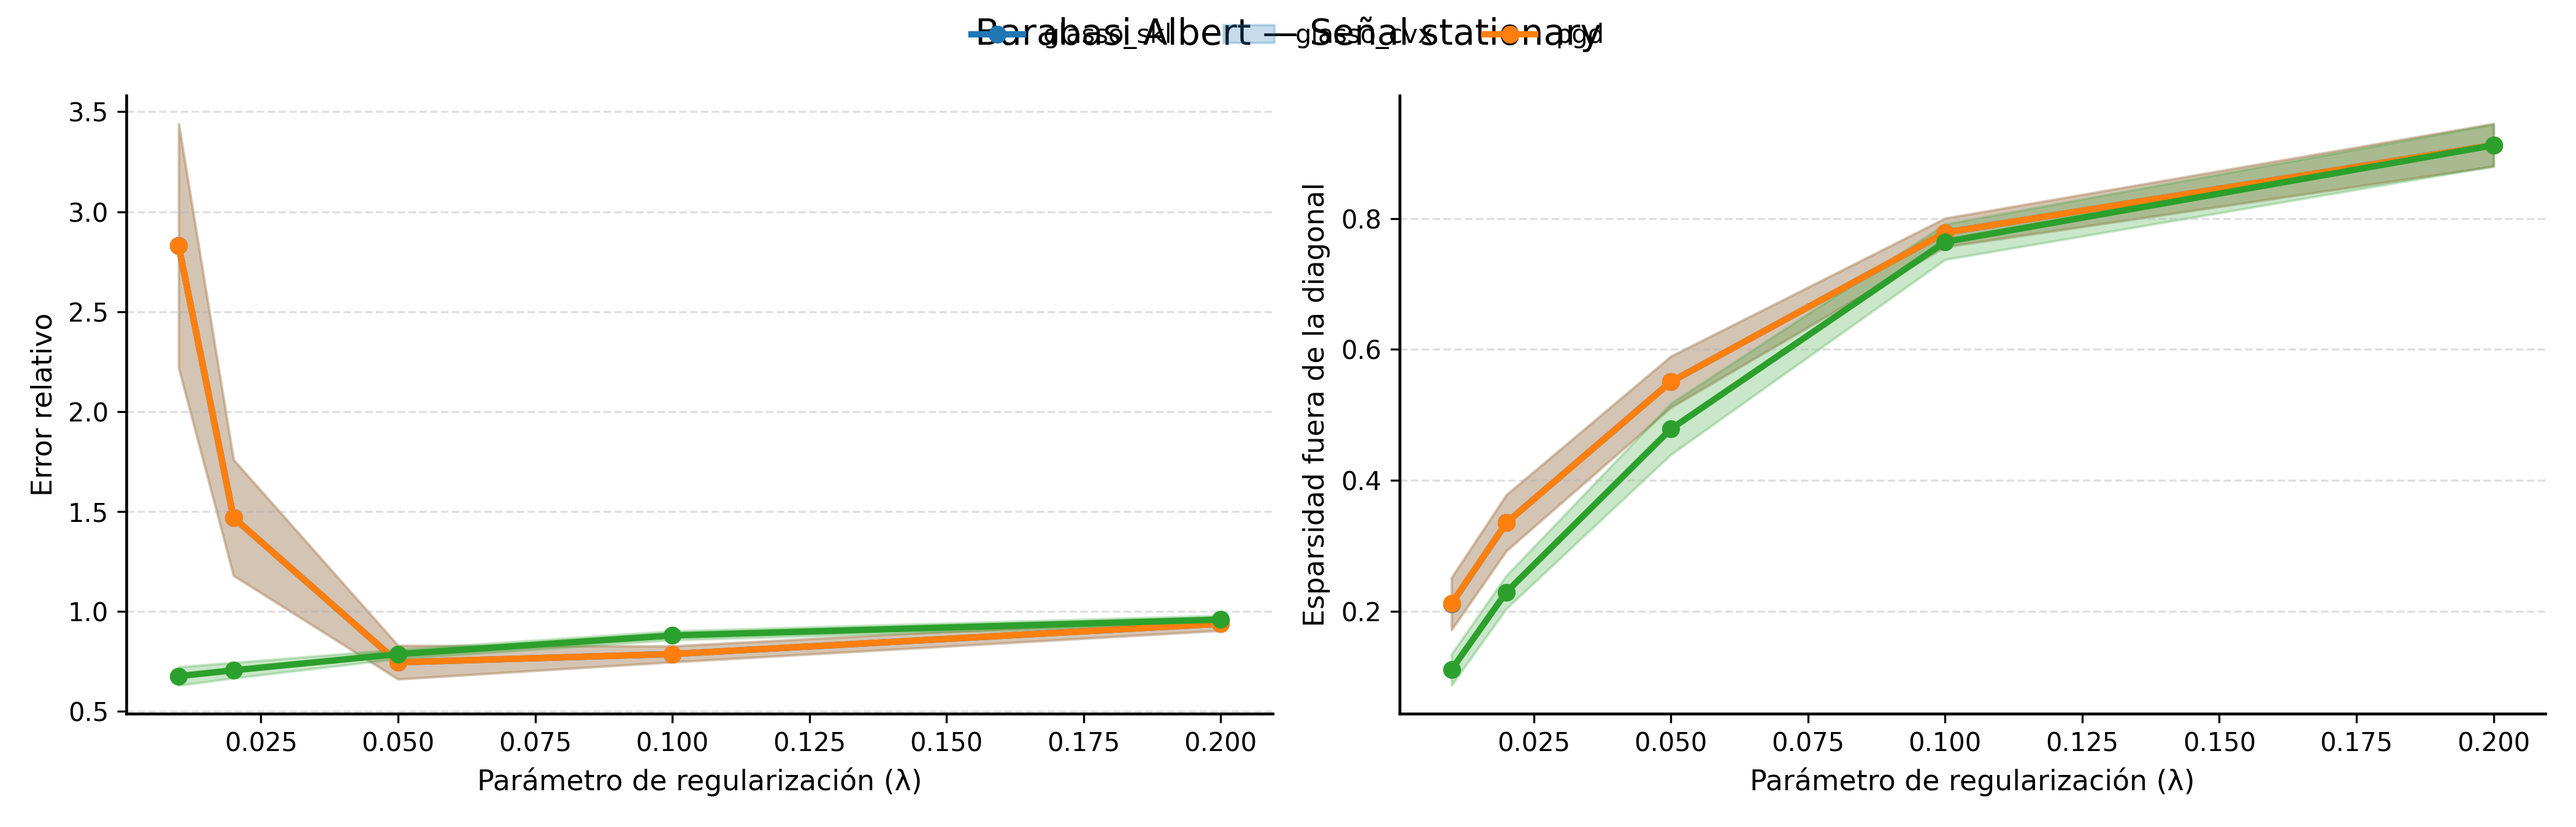
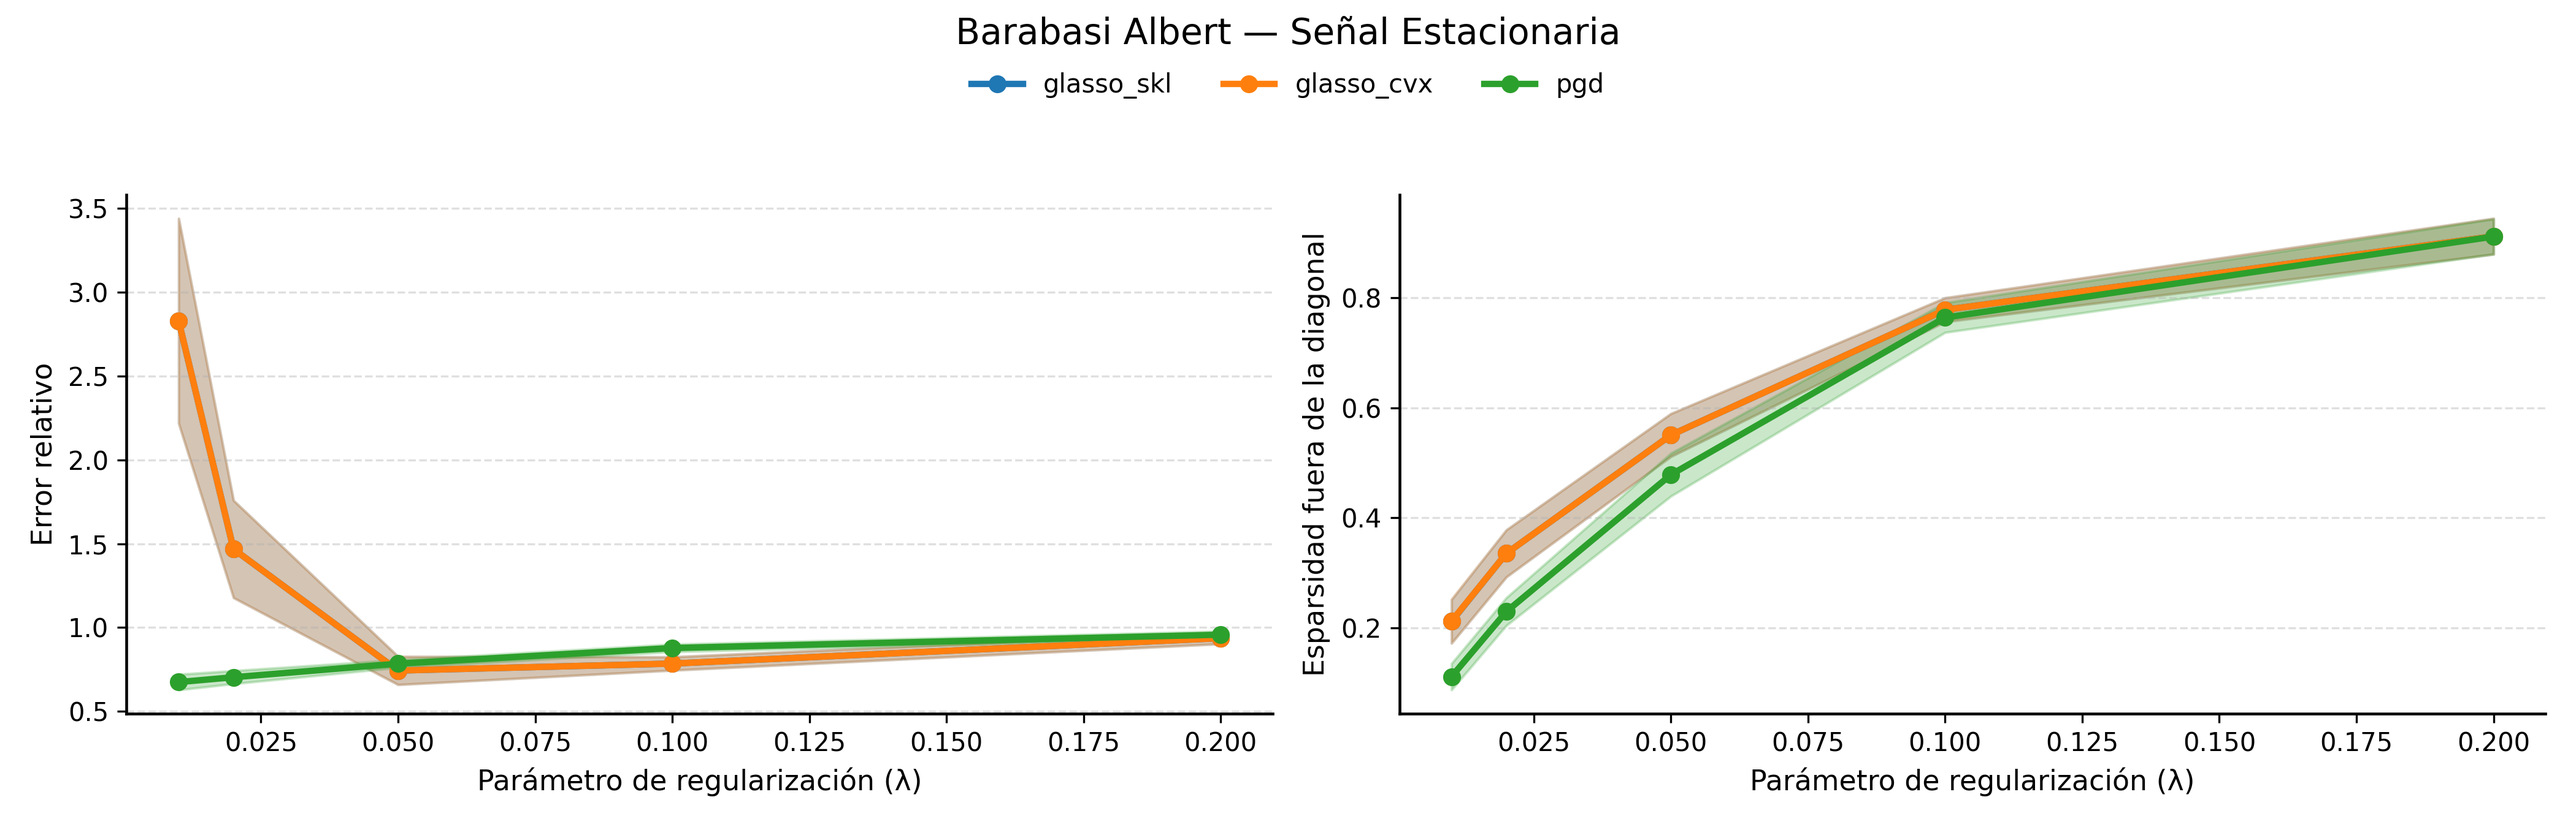
figuras arregladas

diff --git a/plot_figures.py b/plot_figures.py
@@ -83,23 +83,44 @@ def plot_mean_std(ax, x, mean, std, label, color):
     )
 
 # ======================================================
+# FUNCIÓN AUXILIAR: CIERRE DE FIGURA 2-PANELES (SUptitle + Legend SIN SOLAPAR)
+# ======================================================
+def finalize_two_panel_figure(fig, axes, title, outpath):
+    # Título arriba (y reservado)
+    fig.suptitle(title, fontsize=14, y=0.98)
+
+    # Leyenda basada en las líneas del primer subplot
+    handles, labels = axes[0].get_legend_handles_labels()
+
+    # Leyenda centrada arriba pero debajo del título
+    fig.legend(
+        handles, labels,
+        loc="upper center",
+        ncol=len(METHODS),
+        frameon=False,
+        bbox_to_anchor=(0.5, 0.94)
+    )
+
+    # Reservar espacio superior para título + leyenda
+    fig.tight_layout(rect=[0, 0, 1, 0.88])
+
+    fig.savefig(outpath, dpi=300)
+    plt.close(fig)
+
+# ======================================================
 # ERROR Y TIEMPO VS M
 # ======================================================
 def plot_error_time_vs_M(df, graph, signal):
     d = df[
-    (df.graph_type == graph) &
-    (df.signal_type == signal) &
-    (df.M > 10)   # ⬅ elimina M = 10 SOLO en la gráfica
-]
+        (df.graph_type == graph) &
+        (df.signal_type == signal) &
+        (df.M > 10)   # ⬅ elimina M = 10 SOLO en la gráfica
+    ]
 
     if d.empty:
         return
 
     fig, axes = plt.subplots(1, 2, figsize=(14, 4.5))
-    fig.suptitle(
-        f"{graph.replace('_',' ').title()} — Señal {signal}",
-        fontsize=14
-    )
 
     # Error vs M
     ax = axes[0]
@@ -122,10 +143,11 @@ def plot_error_time_vs_M(df, graph, signal):
     ax.set_ylabel("Tiempo de cómputo (ms, log)")
     ax.grid(axis="y", linestyle="--", alpha=0.4)
 
-    fig.legend(METHODS, loc="upper center", ncol=3, frameon=False)
-    plt.tight_layout()
-    plt.savefig(f"{FIG_DIR}/{graph}_{signal}_error_time_vs_M.png", dpi=300)
-    plt.close()
+    signal_pretty = {"gaussian": "Gaussiana", "stationary": "Estacionaria"}.get(signal, signal)
+    title = f"{graph.replace('_',' ').title()} — Señal {signal_pretty}"
+    outpath = f"{FIG_DIR}/{graph}_{signal}_error_time_vs_M.png"
+
+    finalize_two_panel_figure(fig, axes, title, outpath)
 
 # ======================================================
 # ERROR Y SPARSITY VS LAMBDA
@@ -136,10 +158,6 @@ def plot_error_sparsity_vs_lam(df, graph, signal):
         return
 
     fig, axes = plt.subplots(1, 2, figsize=(14, 4.5))
-    fig.suptitle(
-        f"{graph.replace('_',' ').title()} — Señal {signal}",
-        fontsize=14
-    )
 
     # Error vs lambda
     ax = axes[0]
@@ -161,10 +179,11 @@ def plot_error_sparsity_vs_lam(df, graph, signal):
     ax.set_ylabel("Esparsidad fuera de la diagonal")
     ax.grid(axis="y", linestyle="--", alpha=0.4)
 
-    fig.legend(METHODS, loc="upper center", ncol=3, frameon=False)
-    plt.tight_layout()
-    plt.savefig(f"{FIG_DIR}/{graph}_{signal}_error_sparsity_vs_lam.png", dpi=300)
-    plt.close()
+    signal_pretty = {"gaussian": "Gaussiana", "stationary": "Estacionaria"}.get(signal, signal)
+    title = f"{graph.replace('_',' ').title()} — Señal {signal_pretty}"
+    outpath = f"{FIG_DIR}/{graph}_{signal}_error_sparsity_vs_lam.png"
+
+    finalize_two_panel_figure(fig, axes, title, outpath)
 
 # ======================================================
 # PARETO PRECISIÓN–TIEMPO
@@ -191,9 +210,12 @@ def plot_pareto(df, graph, signal):
     plt.yscale("log")
     plt.xlabel("Tiempo de cómputo (ms, log)")
     plt.ylabel("Error relativo (log)")
+
+    signal_pretty = {"gaussian": "Gaussiana", "stationary": "Estacionaria"}.get(signal, signal)
     plt.title(
-        f"Compromiso precisión–tiempo\n{graph.replace('_',' ').title()} — {signal}"
+        f"Compromiso precisión–tiempo\n{graph.replace('_',' ').title()} — {signal_pretty}"
     )
+
     plt.grid(True, linestyle="--", alpha=0.4)
     plt.legend(frameon=False)
     plt.tight_layout()

diff --git a/README.md b/README.md
@@ -109,7 +109,7 @@ El rendimiento de los métodos se analiza en función de:
 
   ├── experiments_big.py
 
-  ├── plot_error_time_vs_M_all_graphs.py
+  ├── plot_figures.py
 
   ├── requirements.txt
 
@@ -208,5 +208,5 @@ Los resultados se muestran por consola.
 ### 3. Generación de las figuras finales
 Para reproducir todas las gráficas presentadas en el análisis (error, tiempo, esparsidad y frentes de Pareto), ejecutar:
 
-python plot_error_time_vs_M_all_graphs.py
+python plot_figures.py
 Figuras de los grafos generados en figures_interpretation/
